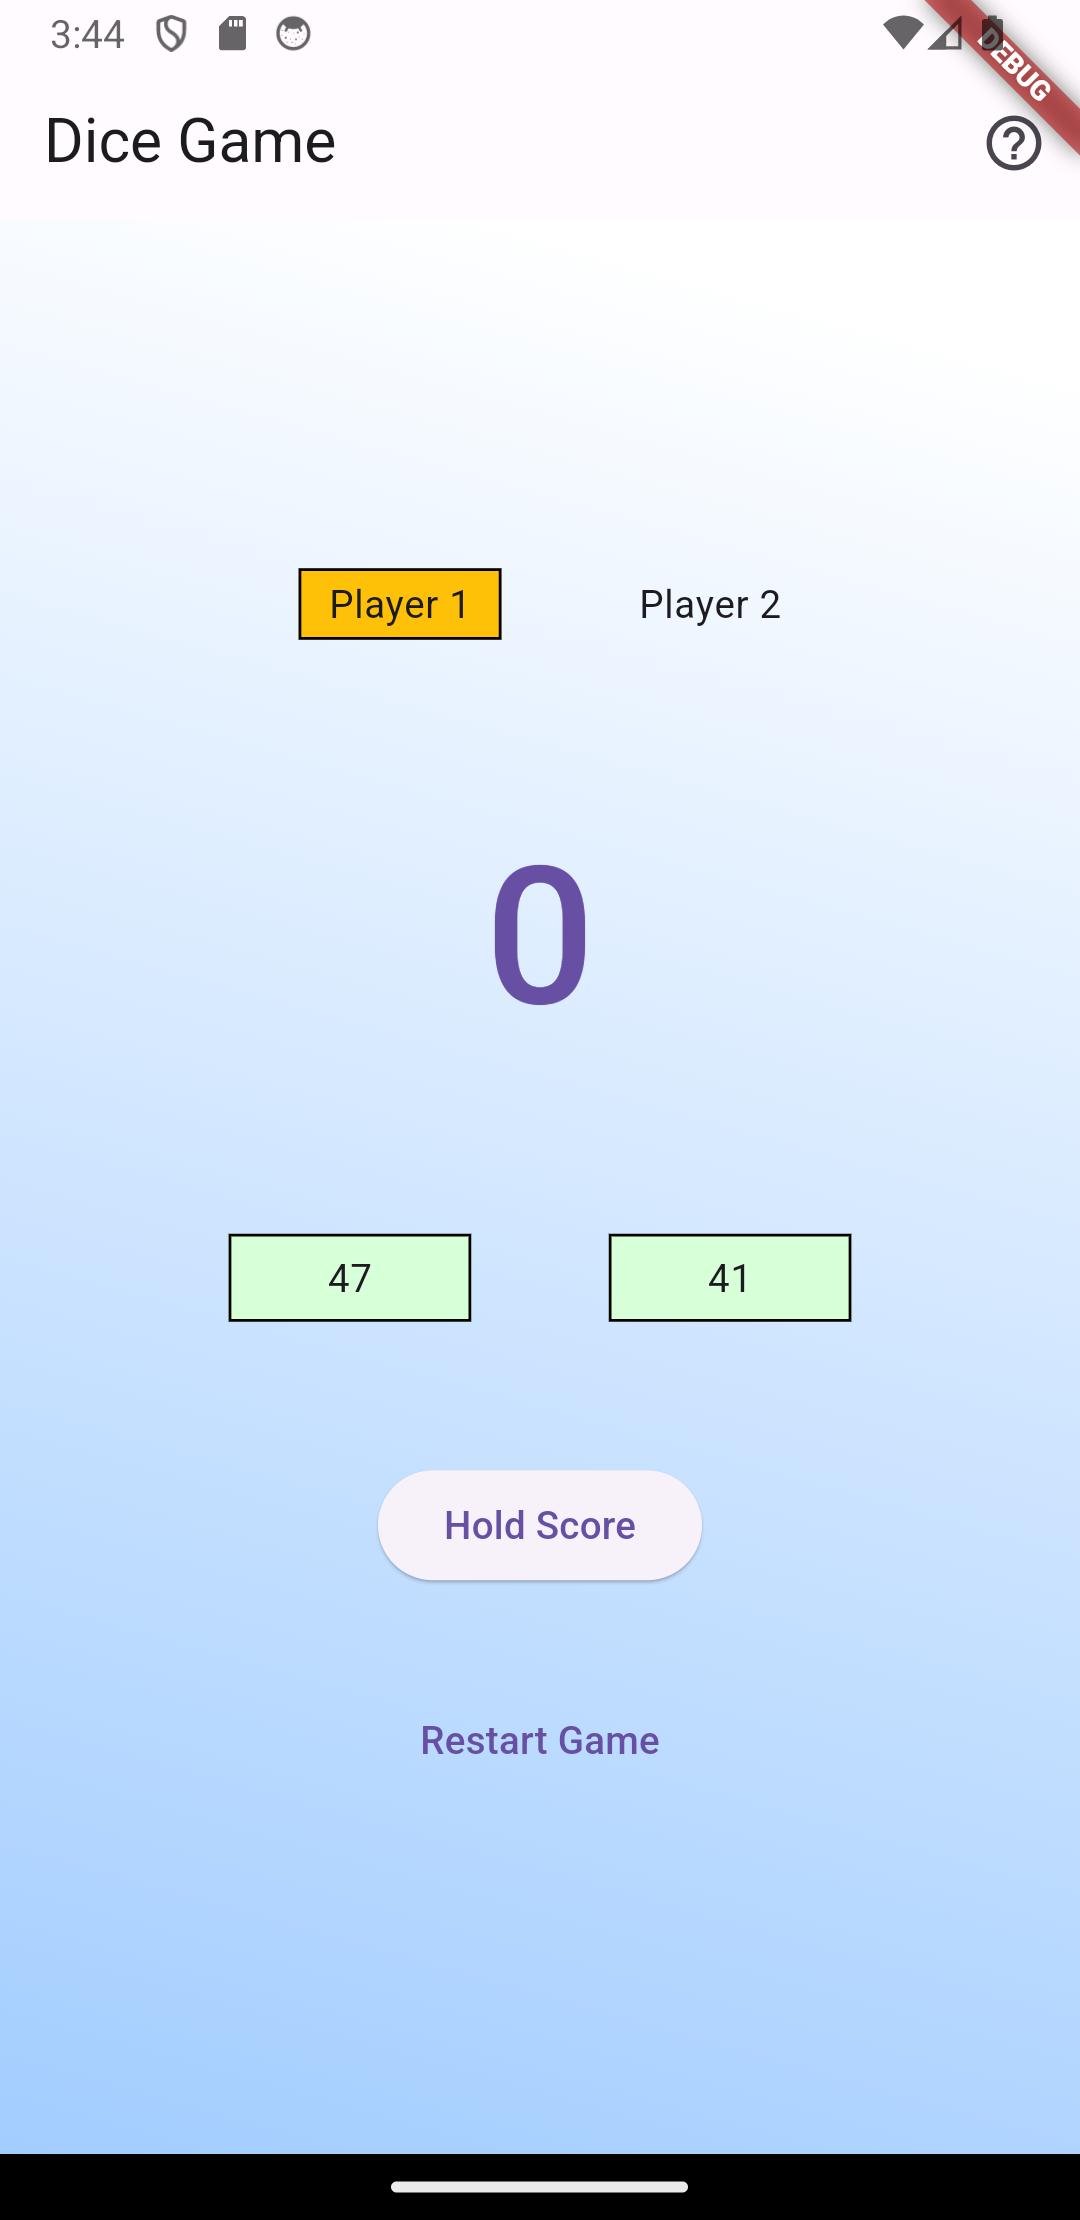
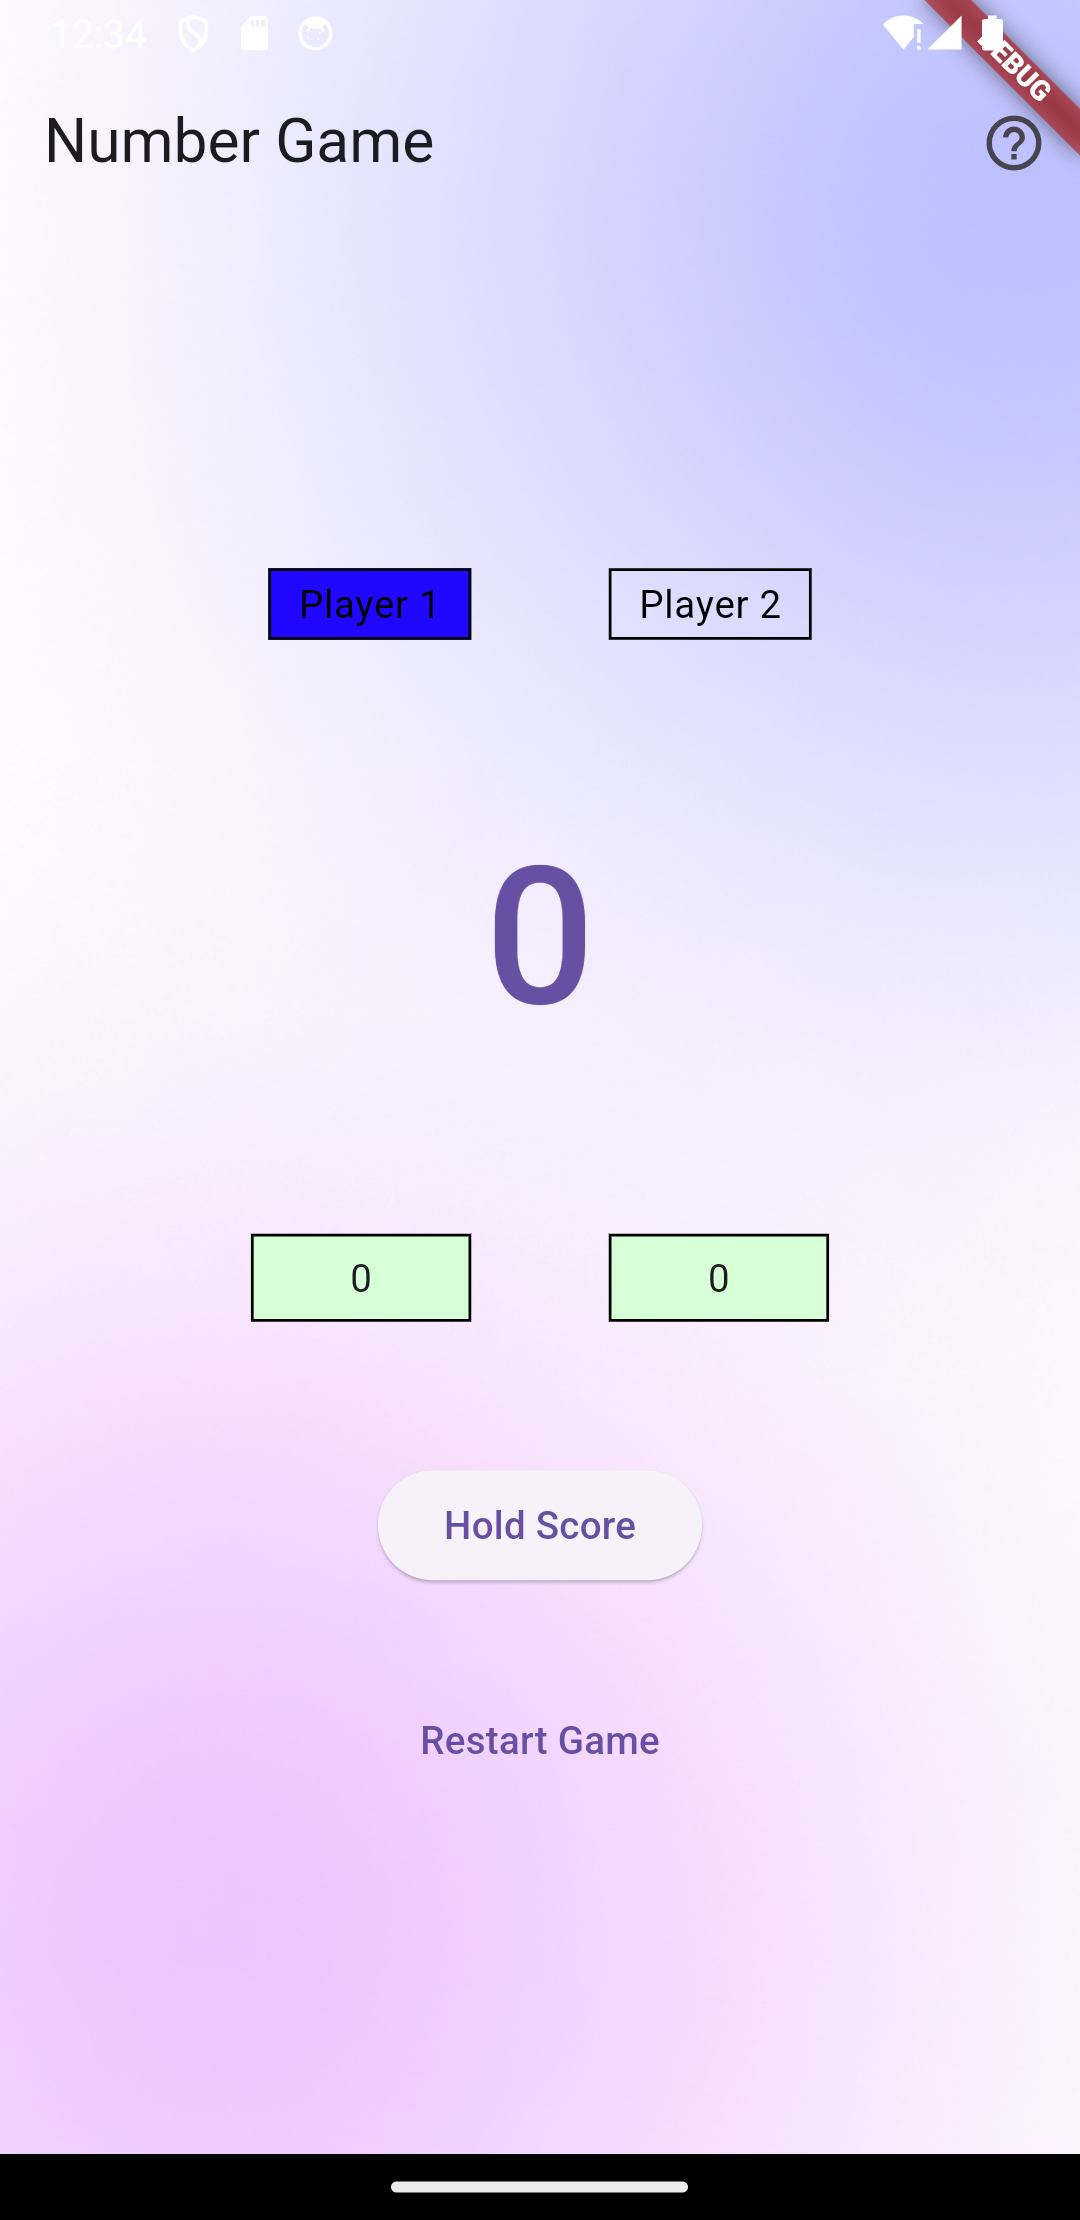
bg

diff --git a/lib/widgets/action.dart b/lib/widgets/action.dart
@@ -17,26 +17,40 @@ class _GameActionState extends State<GameAction> {
   int _score1 = 0;
   int _tempScore = 0;
   int _activePlayer = 1;
-  Widget _playerTitle = Container(
-    decoration: BoxDecoration(border: Border.all()),
-    padding: const EdgeInsets.symmetric(horizontal: 10, vertical: 2),
-    color: Color(Colors.amber.value),
-    child: const Text('Player 1'),
-  );
-  Widget _playerTitle1 = const Text('Player 2');
+
+  @override
+  void initState() {
+    super.initState();
+    _updatePlayerTitles();
+  }
+
+  Widget _getPlayerTitle(int playerNumber) {
+    return Container(
+      decoration: BoxDecoration(
+        border: Border.all(),
+        color: playerNumber == _activePlayer
+            ? Color(const Color.fromARGB(255, 32, 7, 255).value)
+            : Colors.transparent,
+      ),
+      padding: const EdgeInsets.symmetric(horizontal: 10, vertical: 2),
+      child: Text(
+        'Player $playerNumber',
+        style: const TextStyle(color: Colors.black),
+      ),
+    );
+  }
+
+  void _updatePlayerTitles() {
+    setState(() {});
+  }
 
   void _rollHandler() {
     setState(() {
       _num = _gameLogic.rollDice();
       if (_gameLogic.isMultipleOfFive(_num)) {
         _tempScore = 0;
-        if (_activePlayer == 1) {
-          _activePlayer = 2;
-          _updatePlayerTitles();
-        } else {
-          _activePlayer = 1;
-          _updatePlayerTitles();
-        }
+        _activePlayer = _activePlayer == 1 ? 2 : 1;
+        _updatePlayerTitles();
       } else {
         _tempScore += _num;
       }
@@ -70,41 +84,7 @@ class _GameActionState extends State<GameAction> {
       _score1 = 0;
       _tempScore = 0;
       _num = 0;
-      _playerTitle = Container(
-        decoration: BoxDecoration(
-          border: Border.all(),
-          color: Color(Colors.amber.value),
-        ),
-        padding: const EdgeInsets.symmetric(horizontal: 10, vertical: 2),
-        child: const Text('Player 1'),
-      );
-      _playerTitle1 = const Text('Player 2');
-    });
-  }
-
-  void _updatePlayerTitles() {
-    setState(() {
-      if (_activePlayer == 1) {
-        _playerTitle = Container(
-          decoration: BoxDecoration(
-            border: Border.all(),
-            color: Color(Colors.amber.value),
-          ),
-          padding: const EdgeInsets.symmetric(horizontal: 10, vertical: 2),
-          child: const Text('Player 1'),
-        );
-        _playerTitle1 = const Text('Player 2');
-      } else {
-        _playerTitle = const Text('Player 1');
-        _playerTitle1 = Container(
-          decoration: BoxDecoration(
-            border: Border.all(),
-            color: Color(Colors.amber.value),
-          ),
-          padding: const EdgeInsets.symmetric(horizontal: 10, vertical: 2),
-          child: const Text('Player 2'),
-        );
-      }
+      _updatePlayerTitles();
     });
   }
 
@@ -140,11 +120,11 @@ class _GameActionState extends State<GameAction> {
           mainAxisAlignment: MainAxisAlignment.center,
           crossAxisAlignment: CrossAxisAlignment.center,
           children: [
-            _playerTitle,
+            _getPlayerTitle(1),
             const SizedBox(
               width: 50,
             ),
-            _playerTitle1,
+            _getPlayerTitle(2),
           ],
         ),
         const SizedBox(

diff --git a/lib/screens/screen.dart b/lib/screens/screen.dart
@@ -37,31 +37,34 @@ class _ScreenState extends State<Screen> {
 
   @override
   Widget build(BuildContext context) {
-    return Scaffold(
-      appBar: AppBar(
-        title: const Text('Dice Game'),
-        actions: [
-          IconButton(
-            icon: const Icon(Icons.help_outline),
-            onPressed: _showGameRulesDialog,
+    return Container(
+      decoration: const BoxDecoration(
+        image: DecorationImage(
+          image: AssetImage('assets/images/bg.png'),
+          fit: BoxFit.cover,
+        ),
+      ),
+      child: Stack(
+        children: [
+          Column(
+            children: [
+              AppBar(
+                backgroundColor: Colors.transparent,
+                title: const Text('Number Game'),
+                actions: [
+                  IconButton(
+                    icon: const Icon(Icons.help_outline),
+                    onPressed: () => _showGameRulesDialog(),
+                  ),
+                ],
+                elevation: 0,
+              ),
+              const Flexible(
+                child: GameAction(),
+              ),
+            ],
           ),
         ],
-        elevation: 0,
-      ),
-      body: Container(
-        decoration: const BoxDecoration(
-          gradient: LinearGradient(
-            colors: [
-              Color.fromARGB(255, 255, 255, 255),
-              Color.fromARGB(255, 162, 205, 255)
-            ],
-            begin: Alignment.topCenter,
-            end: Alignment.bottomLeft,
-          ),
-        ),
-        child: const Center(
-          child: GameAction(),
-        ),
       ),
     );
   }

diff --git a/README.md b/README.md
@@ -1,16 +1,8 @@
-# dice_game
+# Number Game A new Flutter project.
 
-A new Flutter project.
+## UI Screenshots
 
-## Getting Started
-
-This project is a starting point for a Flutter application.
-
-A few resources to get you started if this is your first Flutter project:
-
-- [Lab: Write your first Flutter app](https://docs.flutter.dev/get-started/codelab)
-- [Cookbook: Useful Flutter samples](https://docs.flutter.dev/cookbook)
-
-For help getting started with Flutter development, view the
-[online documentation](https://docs.flutter.dev/), which offers tutorials,
-samples, guidance on mobile development, and a full API reference.
+<p float="left">
+  <img src="screenshot/UI_0.png" width="200" />
+  <img src="screenshot/UI.png" width="200" /> 
+</p>
